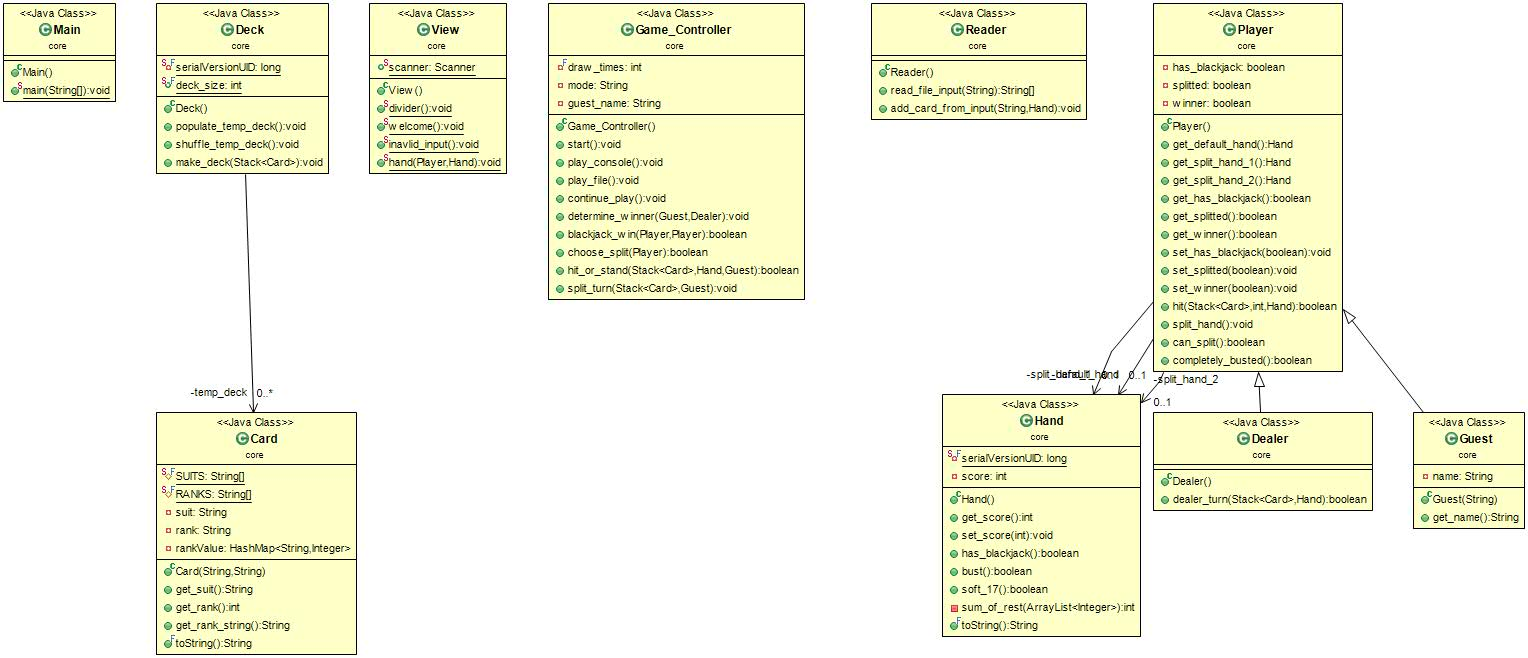
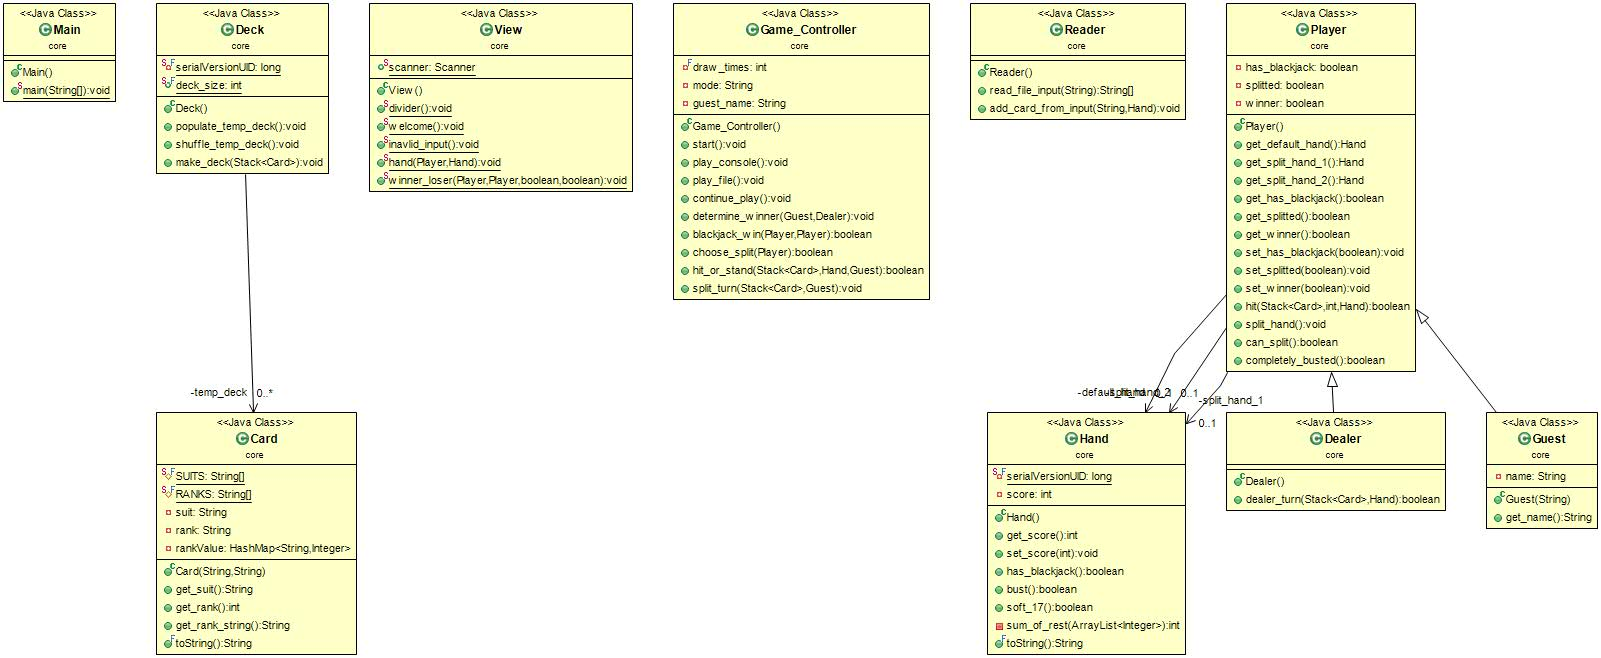
Refactor: View

diff --git a/Maven_Project/src/main/java/core/Game_Controller.java b/Maven_Project/src/main/java/core/Game_Controller.java
@@ -91,7 +91,7 @@ public class Game_Controller {
 				if(blackjack_win(guest, dealer)) break game;
 
 				// Dealer's turn
-				if(!guest.completely_busted()) {
+				if(!guest.completely_bust()) {
 					View.hand(dealer, dealer.get_default_hand());
 					if(dealer.can_split() && choose_split(dealer)) {
 						dealer.split_hand();
@@ -239,33 +239,27 @@ public class Game_Controller {
 
 		// Interface output
 		if(guest_best_hand.bust()) {
-			System.out.print(guest_name + " busted -> ");
+			View.winner_loser(dealer, guest, false, true);
 			View.hand(guest, guest_best_hand);
-			System.out.print("Dealer wins -> ");
 			View.hand(dealer, dealer_best_hand);
 			dealer.set_winner(true);
 		}
 		else if(dealer_best_hand.bust()) {
-			System.out.print("Dealer busted -> ");
-			View.hand(dealer, dealer_best_hand); 
-			System.out.print(guest_name + " wins -> ");
+			View.winner_loser(guest, dealer, false, true);
 			View.hand(guest, guest_best_hand);
+			View.hand(dealer, dealer_best_hand); 
 			guest.set_winner(true);
 		}
 		else if(guest_best_hand.get_score() > dealer_best_hand.get_score()) {
-			System.out.print(guest_name + " -> ");
+			View.winner_loser(guest, dealer, false, false);
 			View.hand(guest, guest_best_hand);
-			System.out.print("Dealer -> ");
 			View.hand(dealer, dealer_best_hand);
-			System.out.println("Winner -> " + guest_name);
 			guest.set_winner(true);
 		}
 		else {
-			System.out.print(guest_name + " -> ");
+			View.winner_loser(dealer, guest, false, false);
 			View.hand(guest, guest_best_hand);
-			System.out.print("Dealer -> ");
 			View.hand(dealer, dealer_best_hand);
-			System.out.println("Winner -> Dealer");
 			dealer.set_winner(true);
 		}
 	}
@@ -285,17 +279,12 @@ public class Game_Controller {
 		}
 
 		if(guest.get_has_blackjack() && !dealer.get_has_blackjack()) {
-			System.out.println(guest_name + " has blackjack, but dealer does not.\nWinner: " + guest_name);
+			View.winner_loser(guest, dealer, true, false);
 			guest.set_winner(true);
 			return true;
 		}
-		else if(!guest.get_has_blackjack() && dealer.get_has_blackjack()) {
-			System.out.println(guest_name + " does not have blackjack, but dealer does.\nWinner: Dealer");
-			dealer.set_winner(true);
-			return true;
-		}
-		else if(guest.get_has_blackjack() && dealer.get_has_blackjack()) {
-			System.out.println("Both " + guest_name + " and dealer have blackjack.\nWinner: Dealer");
+		else if(dealer.get_has_blackjack()) {
+			View.winner_loser(dealer, guest, true, false);
 			dealer.set_winner(true);
 			return true;
 		}

diff --git a/Maven_Project/src/main/java/core/View.java b/Maven_Project/src/main/java/core/View.java
@@ -39,5 +39,29 @@ public class View {
 		if(guest_or_dealer instanceof Guest) System.out.println(((Guest) guest_or_dealer).get_name() + ": " + hand);
 		else if(guest_or_dealer instanceof Dealer) System.out.println("Dealer: "  + hand);
 	}
+	
+	/**
+	 * Winner console message.
+	 * @param winner player
+	 * @param loser player
+	 * @param blackjack true if win by blackjack
+	 * @param bust true if any player busts
+	 */
+	public static void winner_loser(Player winner, Player loser, boolean blackjack, boolean bust) {
+		if(blackjack) {
+			if(winner instanceof Guest) {
+				System.out.println(((Guest) winner).get_name() + " has blackjack, but dealer does not\nWinner: " + ((Guest) winner).get_name());
+			}
+			else System.out.println("Dealer has blackjack\nWinner: Dealer");
+		}
+		else if(bust) {
+			if(winner instanceof Guest) System.out.println("Dealer busts\n" + ((Guest) winner).get_name() + " wins");
+			else System.out.println("Guest busts\nDealer wins");
+		}
+		else {
+			if(winner instanceof Guest) System.out.println(((Guest) winner).get_name() + " wins");
+			else System.out.println("Dealer wins");
+		}
+	}
 
 }

diff --git a/Maven_Project/src/main/java/core/Player.java b/Maven_Project/src/main/java/core/Player.java
@@ -87,7 +87,7 @@ public class Player {
 	/**
 	 * @return true if all of this player's hands are bust
 	 */
-	public boolean completely_busted() {
+	public boolean completely_bust() {
 		if(!can_split() && default_hand.bust()) return true;
 		else if(can_split() && split_hand_1.bust() && split_hand_2.bust()) return true;
 		else return false;
